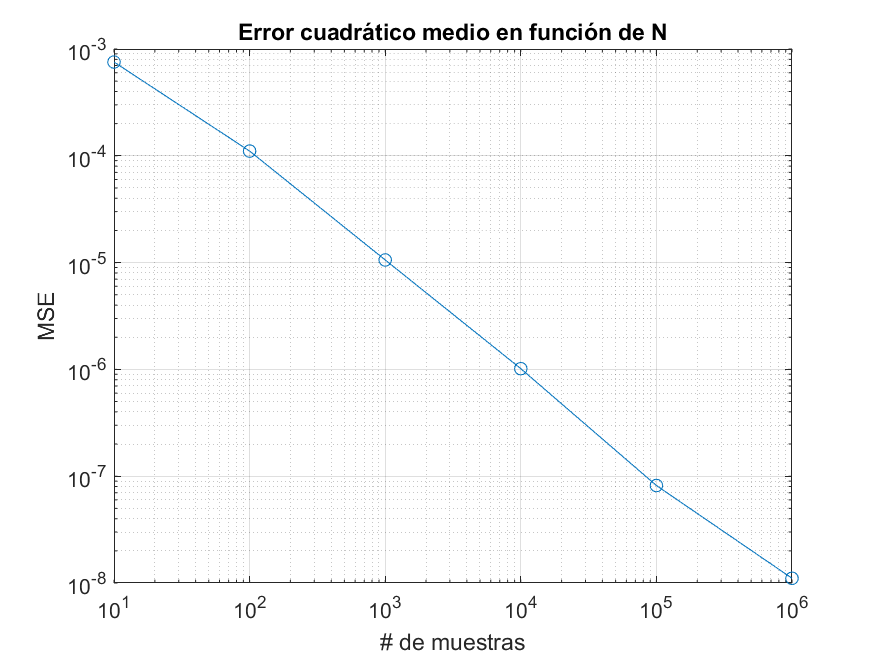
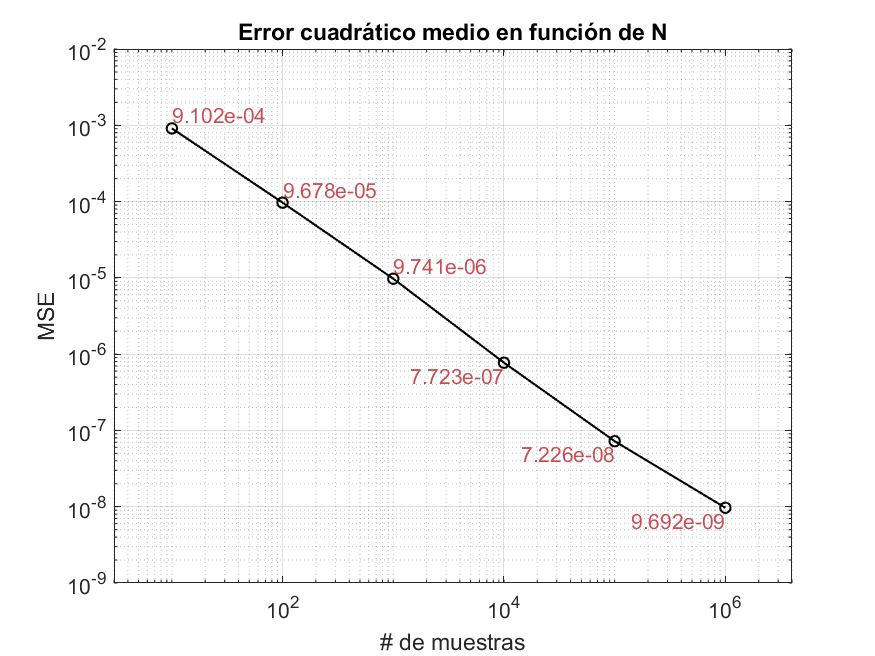
Nuevos graficos en Punto2

diff --git a/TP1/Punto2.m b/TP1/Punto2.m
@@ -19,6 +19,28 @@ for k=1:3
     gx = fx(x, media, varianza);
     % Se calcula la aproximacion de la integral
     I(k) = (b-a)*mean(gx);
+    
+    % Graficos
+    x1 = linspace(-4,8,N);
+    y1 = normpdf(x1,media,sqrt(varianza));
+    l = size(y1);
+    
+    figure(k);
+    subplot(2,1,1)
+    hold on
+    plot(x1,y1,'linewidth',1.5,'color','black')
+    area(x,gx,'facecolor','#c74f54','facealpha',0.5)
+    legend('Función de densidad', 'Area de integración')
+    axis([-4 8 0 0.3])
+    
+    subplot(2,1,2)
+    hold on
+    plot(x1,y1,'linewidth',1.5,'color','black')
+    stem(x(1:100:end),gx(1:100:end),'color','#c74f54')
+    xlim([-4,8])
+    legend('Función de densidad', '100 Muestras aleatorias')
+    title(['I = ',num2str(I(k),15)])
+    axis([-4 8 0 0.3])
 end
 
 fprintf("Puntos a, b y c:\nIa = %.15f\nIb = %.15f\nIc = %.15f\n", I(1), I(2), I(3));
@@ -51,18 +73,24 @@ for i=1:6
     fprintf("Error cuadratico medio (N=%d): %.15f\n", N_d(i), MSE(i));
 end
 
-figure(1);
-loglog(N_d,MSE,'-o')
+figure(4);
+loglog(N_d,MSE,'color','black','linewidth',1,'marker','o','markersize',5)
 grid on
+text(N_d(1:3),MSE(1:3),num2str(MSE(1:3),'%10.3e\n'),'horizontalAlignment','left','verticalAlignment','bottom','color','#c74f54')
+text(N_d(4:6),MSE(4:6),num2str(MSE(4:6),'%10.3e\n'),'horizontalAlignment','right','verticalAlignment','top','color','#c74f54')
 xlabel('# de muestras')
 ylabel('MSE')
 title('Error cuadrático medio en función de N')
+axis([3 4e6 1e-9 1e-2])
 
 if ~exist('TP1/Images', 'dir')
 	mkdir('TP1/Images');
 end
 
-saveas(1, 'TP1/Images/2d_MSE.png');
+% saveas(1, 'TP1/Images/2a.png');
+% saveas(2, 'TP1/Images/2b.png');
+% saveas(3, 'TP1/Images/2c.png');
+% saveas(4, 'TP1/Images/2d_MSE.png');
 
 % Definición de la densidad
 function densidad = fx(x, media, varianza)
